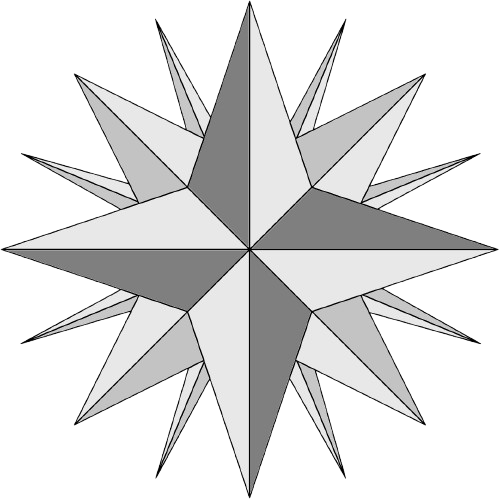
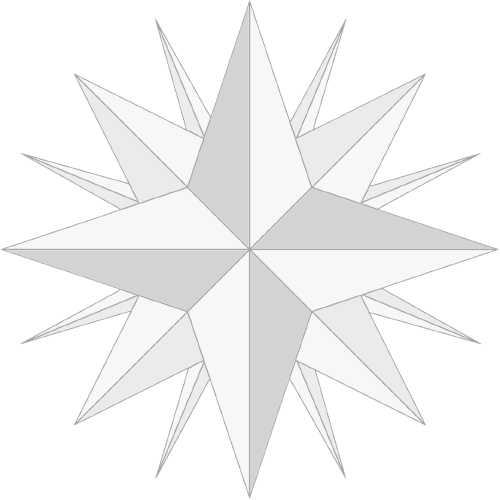
Wind direction update

diff --git a/js/dadosRio.js b/js/dadosRio.js
@@ -1,3 +1,5 @@
+import checkWindDirection from "./windDirection";
+
 const LIVE_CHECK_TIMEOUT = 20 * 60 * 1000;
 
 let dataAtual = new Date();
@@ -36,11 +38,9 @@ const mapWeatherData = (riverLevel, weatherSummaryData) => {
 async function fetchRiverData() {
   try {
     const riverLevelRes = await fetch('/api/rio-proxy?path=river/level');
-    if (!riverLevelRes.ok) throw new Error(`HTTP error! Status: ${riverLevelRes.status}`);
     const riverLevelData = await riverLevelRes.json();
 
     const weatherSummaryRes = await fetch('/api/rio-proxy?path=weather');
-    if (!weatherSummaryRes.ok) throw new Error(`HTTP error! Status: ${weatherSummaryRes.status}`);
     const weatherSummaryData = await weatherSummaryRes.json();
 
     mapWeatherData(riverLevelData.nivelMedicao, weatherSummaryData);
@@ -61,7 +61,7 @@ function renderizarDadosFluviais(riverLevel, dados) {
     document.querySelector('#TempAtual').innerText = `${dados.tempAtual}°c`;
     document.querySelector('#SensTerm').innerText = `${dados.sensTerm}°c`;
     document.querySelector('#VeloVento').innerText = `${dados.veloVento}Km/H`;
-    document.querySelector('#DireVento').innerText = `${dados.direVento}`;
+    document.querySelector('#compass-needle').style.rotate = `${checkWindDirection(dados.direVento)}deg`;
 }
 
 function renderizarGraficos(riverLevel, dados) {

diff --git a/js/windDirection.js b/js/windDirection.js
@@ -1,0 +1,33 @@
+
+const checkWindDirection = (originDirection) => {
+    
+    switch(originDirection){
+        case "N": return 0;
+        case "NNE": return 22.5;
+        case "NE": return 45;
+        case "ENE": return 67.5;
+        case "E": return 90;
+        case "ESE": return 112.5;
+        case "SE": return 135;
+        case "SSE": return 157.5;
+        case "S": return 180;
+        case "SSW": 
+        case "SSO": return 202.5;
+        case "SW": 
+        case "SO": return 225;
+        case "WSW": 
+        case "OSO": return 247.5;
+        case "W": 
+        case "O": return 270;
+        case "WNW": 
+        case "ONO": return 292.5;
+        case "NW": 
+        case "NO": return 315;
+        case "NNW": 
+        case "NNO": return 337.5;
+        default: return null;
+    }
+
+}
+
+export default checkWindDirection;

diff --git a/index.html b/index.html
@@ -153,7 +153,7 @@
                     </div>
                     <div class="info-vento-dire meteoreologia light" id="dire-vento" >
                         <p class="info-title">Direção do vento</p>
-                        <p class="info-meteo-cards" id="DireVento"></p>
+                        <img src="./img/compass-needle.png"  id="compass-needle" />
                     </div>
                 </div>
                 <div class="infos-bottom-right">

diff --git a/css/weather-cards.css b/css/weather-cards.css
@@ -44,6 +44,17 @@
     color: #c0392b;
 }
 
+#dire-vento{
+    background-image: url('../img/wind-directions.png');
+    background-position: center;
+    background-repeat: no-repeat;
+    background-size: 50%;
+}
+
+#compass-needle{
+    height: 50px;
+}
+
 canvas {
     background: #fff;
     border-radius: 12px;

diff --git a/css/style.css b/css/style.css
@@ -68,7 +68,7 @@ body.dark{
 
 .light{
     background-color: var(--white) !important;
-    color: var(--gray-600) !important;
+    color: var(--gray-800) !important;
     box-shadow: var(--shadow-xl) !important;
 }
 
